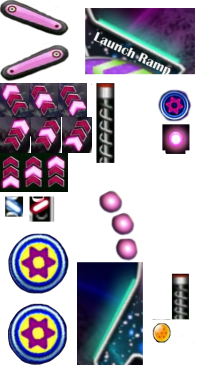
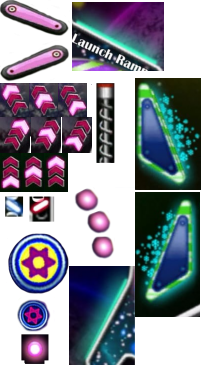
Added Down Bumper Lights and Ramp Launch Light

diff --git a/Physics2_class_4_handout/ModuleSceneIntro.cpp b/Physics2_class_4_handout/ModuleSceneIntro.cpp
@@ -151,6 +151,36 @@ update_status ModuleSceneIntro::Update()
 		App->renderer->Blit(background_elements, x + 412, y + 650, &rect, 1.0f);
 	}
 
+	if (pb_right_bumper != NULL && pb_right_bumper->light == true)
+	{
+		int x, y;
+		pb_right_bumper->GetRealPosition(x, y);
+		SDL_Rect rect = {135,192,65,125};
+		App->renderer->Blit(background_elements, x, y, &rect);
+
+		Timer(pb_right_bumper, 400);
+	}
+
+	if (pb_left_bumper != NULL && pb_left_bumper->light == true)
+	{
+		int x, y;
+		pb_left_bumper->GetRealPosition(x, y);
+		SDL_Rect rect = { 135,78,66,112 };
+		App->renderer->Blit(background_elements, x, y, &rect);
+
+		Timer(pb_left_bumper, 400);
+	}
+
+	if (pb_ramp_sensor != NULL && pb_ramp_sensor->light == true)
+	{
+		int x, y;
+		pb_ramp_sensor->GetRealPosition(x, y);
+		SDL_Rect rect = { 72,2,92,69 };
+		App->renderer->Blit(background_elements, x, y, &rect);
+
+		Timer(pb_ramp_sensor, 200);
+	}
+
 	if (pb_ball != NULL)
 	{
 		int x, y;
@@ -168,20 +198,11 @@ update_status ModuleSceneIntro::Update()
 			bumper->data->GetRealPosition(x, y);
 			SDL_Rect rect = { 8,233,61,61 };
 			App->renderer->Blit(background_elements, x, y, &rect, 1.0f, bumper->data->GetRotation());
-			if (timer)
-			{
-				time_on_entry = SDL_GetTicks();
-				timer = false;
-			}
-			current_time = SDL_GetTicks() - time_on_entry;
-			if (current_time > 200)
-			{
-				bumper->data->light = false;
-				timer = true;
-			}
+			Timer(bumper->data, 200);
 		}
 		bumper = bumper->next;
 	}
+
 
 	App->renderer->Blit(upper_scenario, 0, 0, NULL, 1.0f);
 
@@ -211,6 +232,18 @@ void ModuleSceneIntro::OnCollision(PhysBody* bodyA, PhysBody* bodyB)
 			}
 			bumper_item = bumper_item->next;
 		}
+		if (bodyB == pb_left_bumper)
+		{
+			pb_left_bumper->light = true;
+		}
+		if (bodyB == pb_right_bumper)
+		{
+			pb_right_bumper->light = true;
+		}
+		if (bodyB == pb_ramp_sensor)
+		{
+			pb_ramp_sensor->light = true;
+		}
 		
 	}
 }
@@ -223,15 +256,17 @@ bool ModuleSceneIntro::LoadMap()
 	pb_background->body->SetType(b2_staticBody);
 
 	pb_right_flipper = App->physics->CreateRectangle(270, 748, 60, 15);
-	pb_right_flipper->body->SetType(b2_dynamicBody);
-
 	pb_left_flipper = App->physics->CreateRectangle(180,750,60,15);
-	pb_left_flipper->body->SetType(b2_dynamicBody);
 
-	pb_right_slingshot = App->physics->CreateChain(0, 0, right_slingshot, 16);
-	pb_right_slingshot->body->SetType(b2_staticBody);
-	pb_left_slingshot = App->physics->CreateChain(0, 0, left_slingshot, 16);
-	pb_left_slingshot->body->SetType(b2_staticBody);
+	pb_right_bumper = App->physics->CreateChain(0, 0, right_bumper_coll, 6, 277, 606);
+	pb_right_bumper->body->SetType(b2_staticBody);
+	pb_right_bumper->body->GetFixtureList()->SetRestitution(1.0F);
+	pb_right_bumper->body->GetFixtureList()->SetFriction(0.2F);
+
+	pb_left_bumper = App->physics->CreateChain(0, 0, left_bumper_coll, 6, 105, 605);
+	pb_left_bumper->body->SetType(b2_staticBody);
+	pb_left_bumper->body->GetFixtureList()->SetRestitution(1.0F);
+	pb_left_bumper->body->GetFixtureList()->SetFriction(0.2F);
 
 	pb_plunger = App->physics->CreateChain(0, 0, plunger, 10);
 
@@ -242,6 +277,8 @@ bool ModuleSceneIntro::LoadMap()
 	pb_background_elements.add(App->physics->CreateChain(0, 0, right_blocker, 10));
 	pb_background_elements.add(App->physics->CreateChain(0, 0, up_blocker_1, 18));
 	pb_background_elements.add(App->physics->CreateChain(0, 0, up_blocker_2, 18));
+	pb_background_elements.add(App->physics->CreateChain(0, 0, right_slingshot, 16));
+	pb_background_elements.add(App->physics->CreateChain(0, 0, left_slingshot, 16));
 
 	p2List_item<PhysBody*>* back_elem = pb_background_elements.getFirst();
 	while (back_elem != NULL)
@@ -252,9 +289,10 @@ bool ModuleSceneIntro::LoadMap()
 
 	//Define Bumper Physbodys
 
-	pb_ramp_sensor = App->physics->CreateChain(0, 0, ramp_sensor, 8);
+	pb_ramp_sensor = App->physics->CreateChain(0, 0, ramp_sensor, 8, 77, 277);
 	pb_ramp_sensor->body->SetType(b2_staticBody);
 	pb_ramp_sensor->body->GetFixtureList()->SetRestitution(1.0F);
+	pb_ramp_sensor->body->GetFixtureList()->SetFriction(0.2F);
 
 	pb_bumpers.add(App->physics->CreateChain(0, 0, up_bumper, 42, 40, 40));
 	pb_bumpers.add(App->physics->CreateChain(0, 0, middle_bumper_1, 42, 147, 195));
@@ -323,4 +361,19 @@ bool ModuleSceneIntro::LoadMap()
 
 	plunger_joint = (b2PrismaticJoint*)App->physics->world->CreateJoint(&jointDef);
 	return true;
+}
+
+void ModuleSceneIntro::Timer(PhysBody* pb, int time)
+{
+	if (timer)
+	{
+		time_on_entry = SDL_GetTicks();
+		timer = false;
+	}
+	current_time = SDL_GetTicks() - time_on_entry;
+	if (current_time > time)
+	{
+		pb->light = false;
+		timer = true;
+	}
 }

diff --git a/Physics2_class_4_handout/ModuleSceneIntro.h b/Physics2_class_4_handout/ModuleSceneIntro.h
@@ -22,6 +22,7 @@ public:
 
 private:
 	bool LoadMap();
+	void Timer(PhysBody* pb, int time);
 
 public:
 	p2List<PhysBody*>	circles;
@@ -33,11 +34,10 @@ public:
 	PhysBody*			pb_background;
 	PhysBody*			pb_right_flipper;
 	PhysBody*			pb_left_flipper;
-	PhysBody*           pb_right_slingshot;
-	PhysBody*           pb_left_slingshot;
+	PhysBody*           pb_right_bumper;
+	PhysBody*           pb_left_bumper;
 	PhysBody*			pb_plunger;
 	PhysBody*			pb_ramp_sensor;
-
 	
 	b2RevoluteJoint*    right_joint;
 	b2RevoluteJoint*    left_joint;

diff --git a/Physics2_class_4_handout/ChainList.h b/Physics2_class_4_handout/ChainList.h
@@ -462,5 +462,17 @@ int ramp_sensor[8] = {
 	85, 299
 };
 
+int right_bumper_coll[6] = {
+	323, 614,
+	284, 709,
+	291, 714
+};
+
+int left_bumper_coll[6] = {
+	120, 612,
+	159, 705,
+	152, 710
+};
+
 #endif // !__CHAIN_LIST_H__
 
